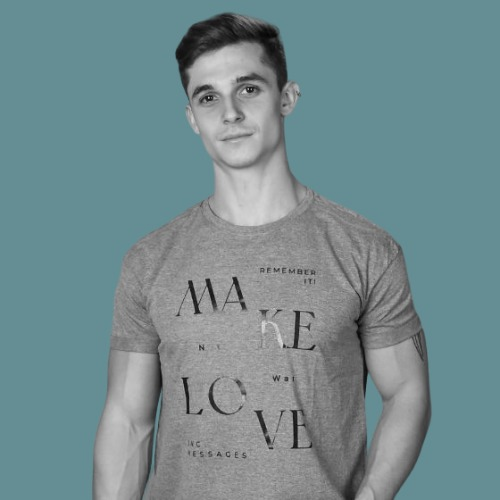
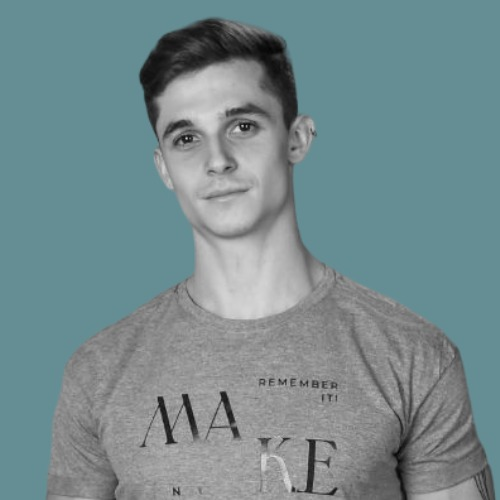
:bug: cambio de fotos en about

diff --git a/frontend/src/pages/About.jsx b/frontend/src/pages/About.jsx
@@ -6,7 +6,7 @@ import damian from '../assets/images/damian.jpeg'
 import dorian from '../assets/images/dorian.jpeg'
 import rumer from '../assets/images/rumer.jpeg'
 import jazmin from '../assets/images/jazmin.jpeg'
-import hernan from '../assets/images/hernan.jpeg'
+import hernan from '../assets/images/damian.jpeg'
 import { Profile } from "../components/Profile";
 
 export const About = () => {
